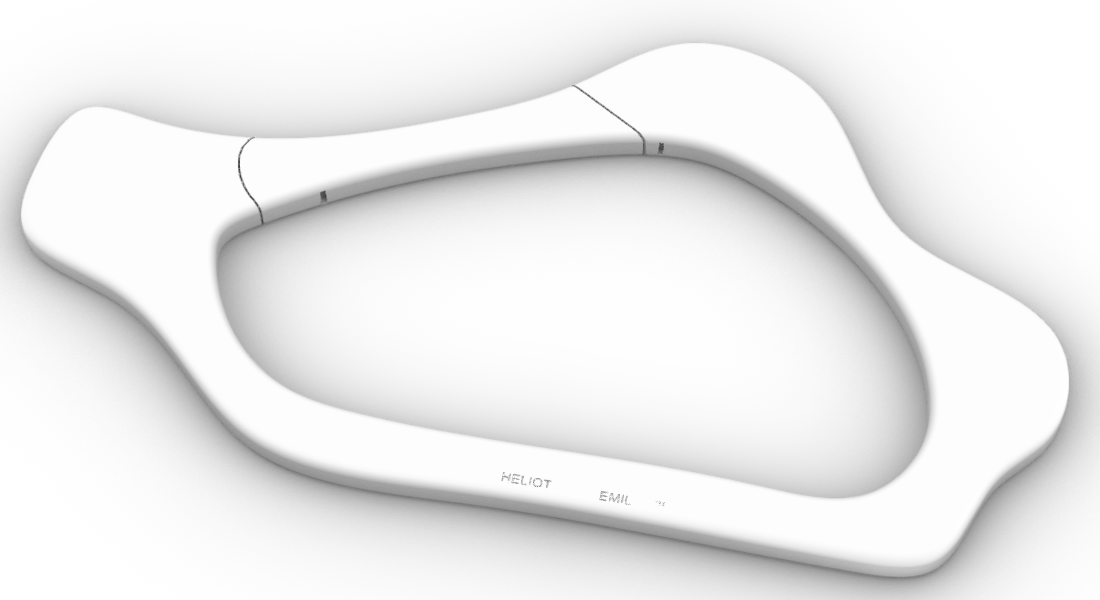
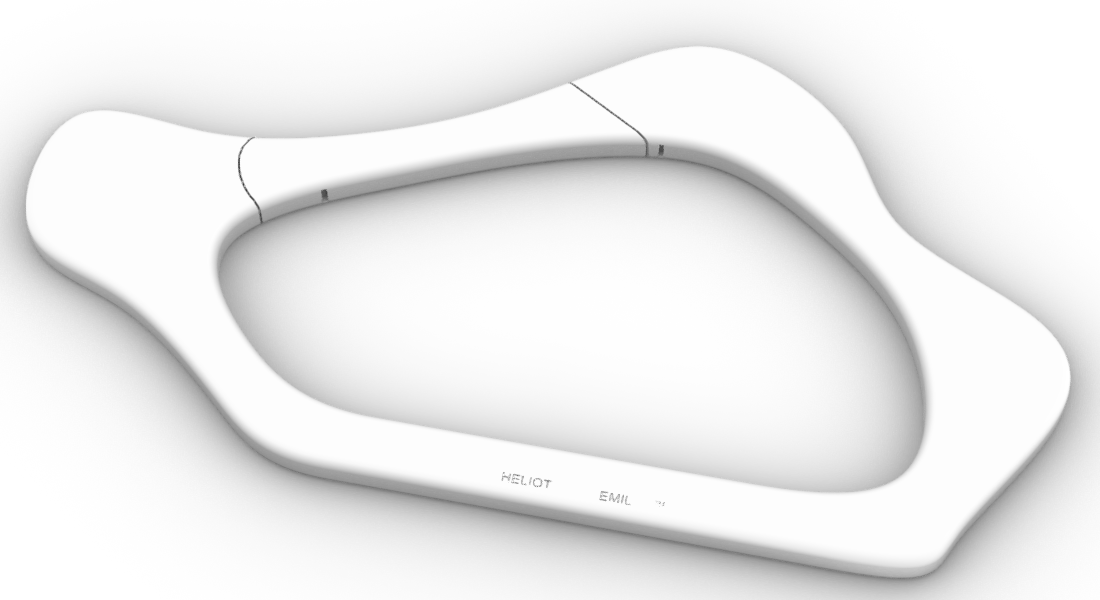
eval/carabiner: owner correction - straight front edge (LineCurve) with G1 blends, rebuilt solids and captures

diff --git a/tests/eval_carabiner/build_base_v2.py b/tests/eval_carabiner/build_base_v2.py
@@ -1,0 +1,41 @@
+"""Owner correction: the long front edge (with the HELIOT EMIL engraving) is exactly straight.
+Outer and inner outlines = LineCurve front segment + open clamped cubic control-point curve, joined (G1)."""
+import json, os, sys
+import numpy as np
+sys.path.insert(0, os.path.dirname(os.path.abspath(__file__)))
+import plan, trace as T, straight_fit as sf
+from mcpx import call
+
+L = "_mcp_eval::carabiner::base"
+STATE = os.path.join(os.path.dirname(os.path.abspath(__file__)), "state.json")
+N_OUT, N_IN = 18, 12
+RO = list(range(35, 46)) + list(range(0, 28))
+RI = list(range(21, 27)) + list(range(0, 16))
+
+
+def curves():
+    O, I = plan.to_plan(T.OUTER), plan.to_plan(T.INNER)
+    Co, Do, do, _ = sf.fit_open(O, RO, *sf.OUTER_LINE, N_OUT)
+    Ci, Di, di, _ = sf.fit_open(I, RI, *sf.INNER_LINE, N_IN)
+    return (Co, Do, do), (Ci, Di, di)
+
+
+if __name__ == "__main__":
+    st = json.load(open(STATE))
+    (Co, _, do), (Ci, _, di) = curves()
+    print("outer %d cps max %.2f mean %.2f | inner %d cps max %.2f mean %.2f mm"
+          % (N_OUT, do.max(), do.mean(), N_IN, di.max(), di.mean()))
+    p3 = lambda C: [[round(float(x), 4), round(float(y), 4), 0.0] for x, y in C]
+    l3 = lambda P: [float(P[0]), float(P[1]), 0.0]
+    r = call("geometry_create", {"layer": L, "items": [
+        {"kind": "line", "from": l3(sf.OUTER_LINE[1]), "to": l3(sf.OUTER_LINE[0]), "name": "outer_front_line"},
+        {"kind": "curve", "points": p3(Co), "mode": "control_points", "degree": 3, "name": "outer_rest"},
+        {"kind": "line", "from": l3(sf.INNER_LINE[1]), "to": l3(sf.INNER_LINE[0]), "name": "inner_front_line"},
+        {"kind": "curve", "points": p3(Ci), "mode": "control_points", "degree": 3, "name": "inner_rest"},
+    ]}, "v2 plan: straight front lines + control-point curves")
+    h = [i["handle"] for i in r["data"]["items"]]
+    ro = call("geometry_edit", {"target": h[:2], "op": "join"}, "join outer line + curve")
+    ri = call("geometry_edit", {"target": h[2:], "op": "join"}, "join inner line + curve")
+    st["outer"], st["inner"] = ro["data"]["created"][0], ri["data"]["created"][0]
+    json.dump(st, open(STATE, "w"), indent=1)
+    print(st)

diff --git a/tests/eval_carabiner/straight_fit.py b/tests/eval_carabiner/straight_fit.py
@@ -1,0 +1,41 @@
+"""Outline = exact straight front segment A-B + one open clamped cubic control-point curve from A around to B.
+The curve's 2nd and 2nd-to-last control points lie on the line through A-B (G1 blend into the straight)."""
+import numpy as np
+import cpfit
+
+# straight front edges in plan (mm), fitted to the rectified traces (residuals <= 0.3 mm outer, <= 0.5 mm inner)
+OUTER_LINE = ((-28.0, -55.2), (62.0, -55.2))
+INNER_LINE = ((-22.0, -43.15), (46.0, -43.15))
+
+
+def path(P, idx_rest, A, B, m=400):
+    R = np.vstack([A, P[idx_rest], B])
+    s = np.r_[0, np.cumsum(np.linalg.norm(np.diff(R, axis=0), axis=1))]
+    q = np.linspace(0, s[-1], m)
+    return np.c_[np.interp(q, s, R[:, 0]), np.interp(q, s, R[:, 1])]
+
+
+def fit_open(P, idx_rest, A, B, ncp, iters=10):
+    A, B = np.asarray(A, float), np.asarray(B, float)
+    T = (A - B) / np.linalg.norm(A - B)   # the trace runs along the front from B to A, i.e. direction T
+    R = path(P, idx_rest, A, B)
+    t = np.linspace(0, 1, len(R))
+    for _ in range(iters):
+        Bm = cpfit.clamped_basis(ncp, t)
+        nf = ncp - 4; rows = len(R)
+        M = np.zeros((2 * rows, 2 + 2 * nf)); y = np.zeros(2 * rows)
+        base = Bm[:, :2].sum(1)[:, None] * A[None] + Bm[:, -2:].sum(1)[:, None] * B[None]
+        for d in range(2):
+            M[d*rows:(d+1)*rows, 0] = Bm[:, 1] * T[d]       # C1 = A + a T   (leaves A in the travel direction)
+            M[d*rows:(d+1)*rows, 1] = -Bm[:, -2] * T[d]     # C_{n-1} = B - b T (arrives at B in direction T)
+            M[d*rows:(d+1)*rows, 2+d*nf:2+(d+1)*nf] = Bm[:, 2:-2]
+            y[d*rows:(d+1)*rows] = R[:, d] - base[:, d]
+        x, *_ = np.linalg.lstsq(M, y, rcond=None)
+        C = np.vstack([A, A + x[0] * T, np.c_[x[2:2+nf], x[2+nf:]], B - x[1] * T, B])
+        td = np.linspace(0, 1, 5000)
+        D = cpfit.clamped_basis(ncp, td) @ C
+        idx = np.argmin(((R[:, None] - D[None]) ** 2).sum(-1), axis=1)
+        t = np.maximum.accumulate(td[idx]); t[0], t[-1] = 0, 1
+    full = np.vstack([D, np.linspace(B, A, 50)])
+    dev = np.sqrt(((np.asarray(P)[:, None] - full[None]) ** 2).sum(-1)).min(1)
+    return C, D, dev, x[:2]

diff --git a/tests/eval_carabiner/detail_fillet.py b/tests/eval_carabiner/detail_fillet.py
@@ -5,10 +5,11 @@ from mcpx import call
 STATE = os.path.join(os.path.dirname(os.path.abspath(__file__)), "state.json")
 st = json.load(open(STATE))
 R = float(os.environ.get("FILLET_R", 2.0))
+EDGES = json.loads(os.environ.get("EDGES", "[0, 2, 3, 4]"))  # v2 (straight front): [0,2,4,5,6,7,8,9]
 r = call("geometry_transform", {"target": [st["body"]], "op": "move", "vector": [0, 0, 0], "copy": True}, "copy basic solid")
 h = (r["data"].get("created") or r["data"].get("copies") or r["data"].get("modified"))[0]
 call("objects_set_props", {"target": h, "layer": "_mcp_eval::carabiner::detail", "name": "body_detail"}, "copy to ::detail")
-r = call("geometry_edit", {"target": h, "op": "fillet_edges", "radius": R, "edges": [0, 2, 3, 4]}, "fillet 4 loops r=%.1f" % R)
+r = call("geometry_edit", {"target": h, "op": "fillet_edges", "radius": R, "edges": EDGES}, "fillet horizontal loop edges %s r=%.1f" % (EDGES, R))
 if r["ok"]:
     st["detail"] = h
     json.dump(st, open(STATE, "w"), indent=1)

diff --git a/tests/eval_carabiner/detail_gate.py b/tests/eval_carabiner/detail_gate.py
@@ -14,8 +14,9 @@ t = plan.THICK_MM
 GAP = float(os.environ.get("GAP", 0.4))
 
 O, I = plan.to_plan(T.OUTER), plan.to_plan(T.INNER)
-SEL_IN = [0, 3, 6, 7, 11, 12, 14, 16, 20, 21, 24, 25]
-inner_dense = sp.closed_spline(I[SEL_IN], 3000)
+import build_base_v2 as v2   # v2 inner outline (straight front + control-point curve)
+_, (_, _Di, _) = v2.curves()
+inner_dense = np.vstack([_Di, np.linspace(_Di[-1], _Di[0], 200)[1:-1]])
 
 
 def slot(P, ext=3.0, n=12):
